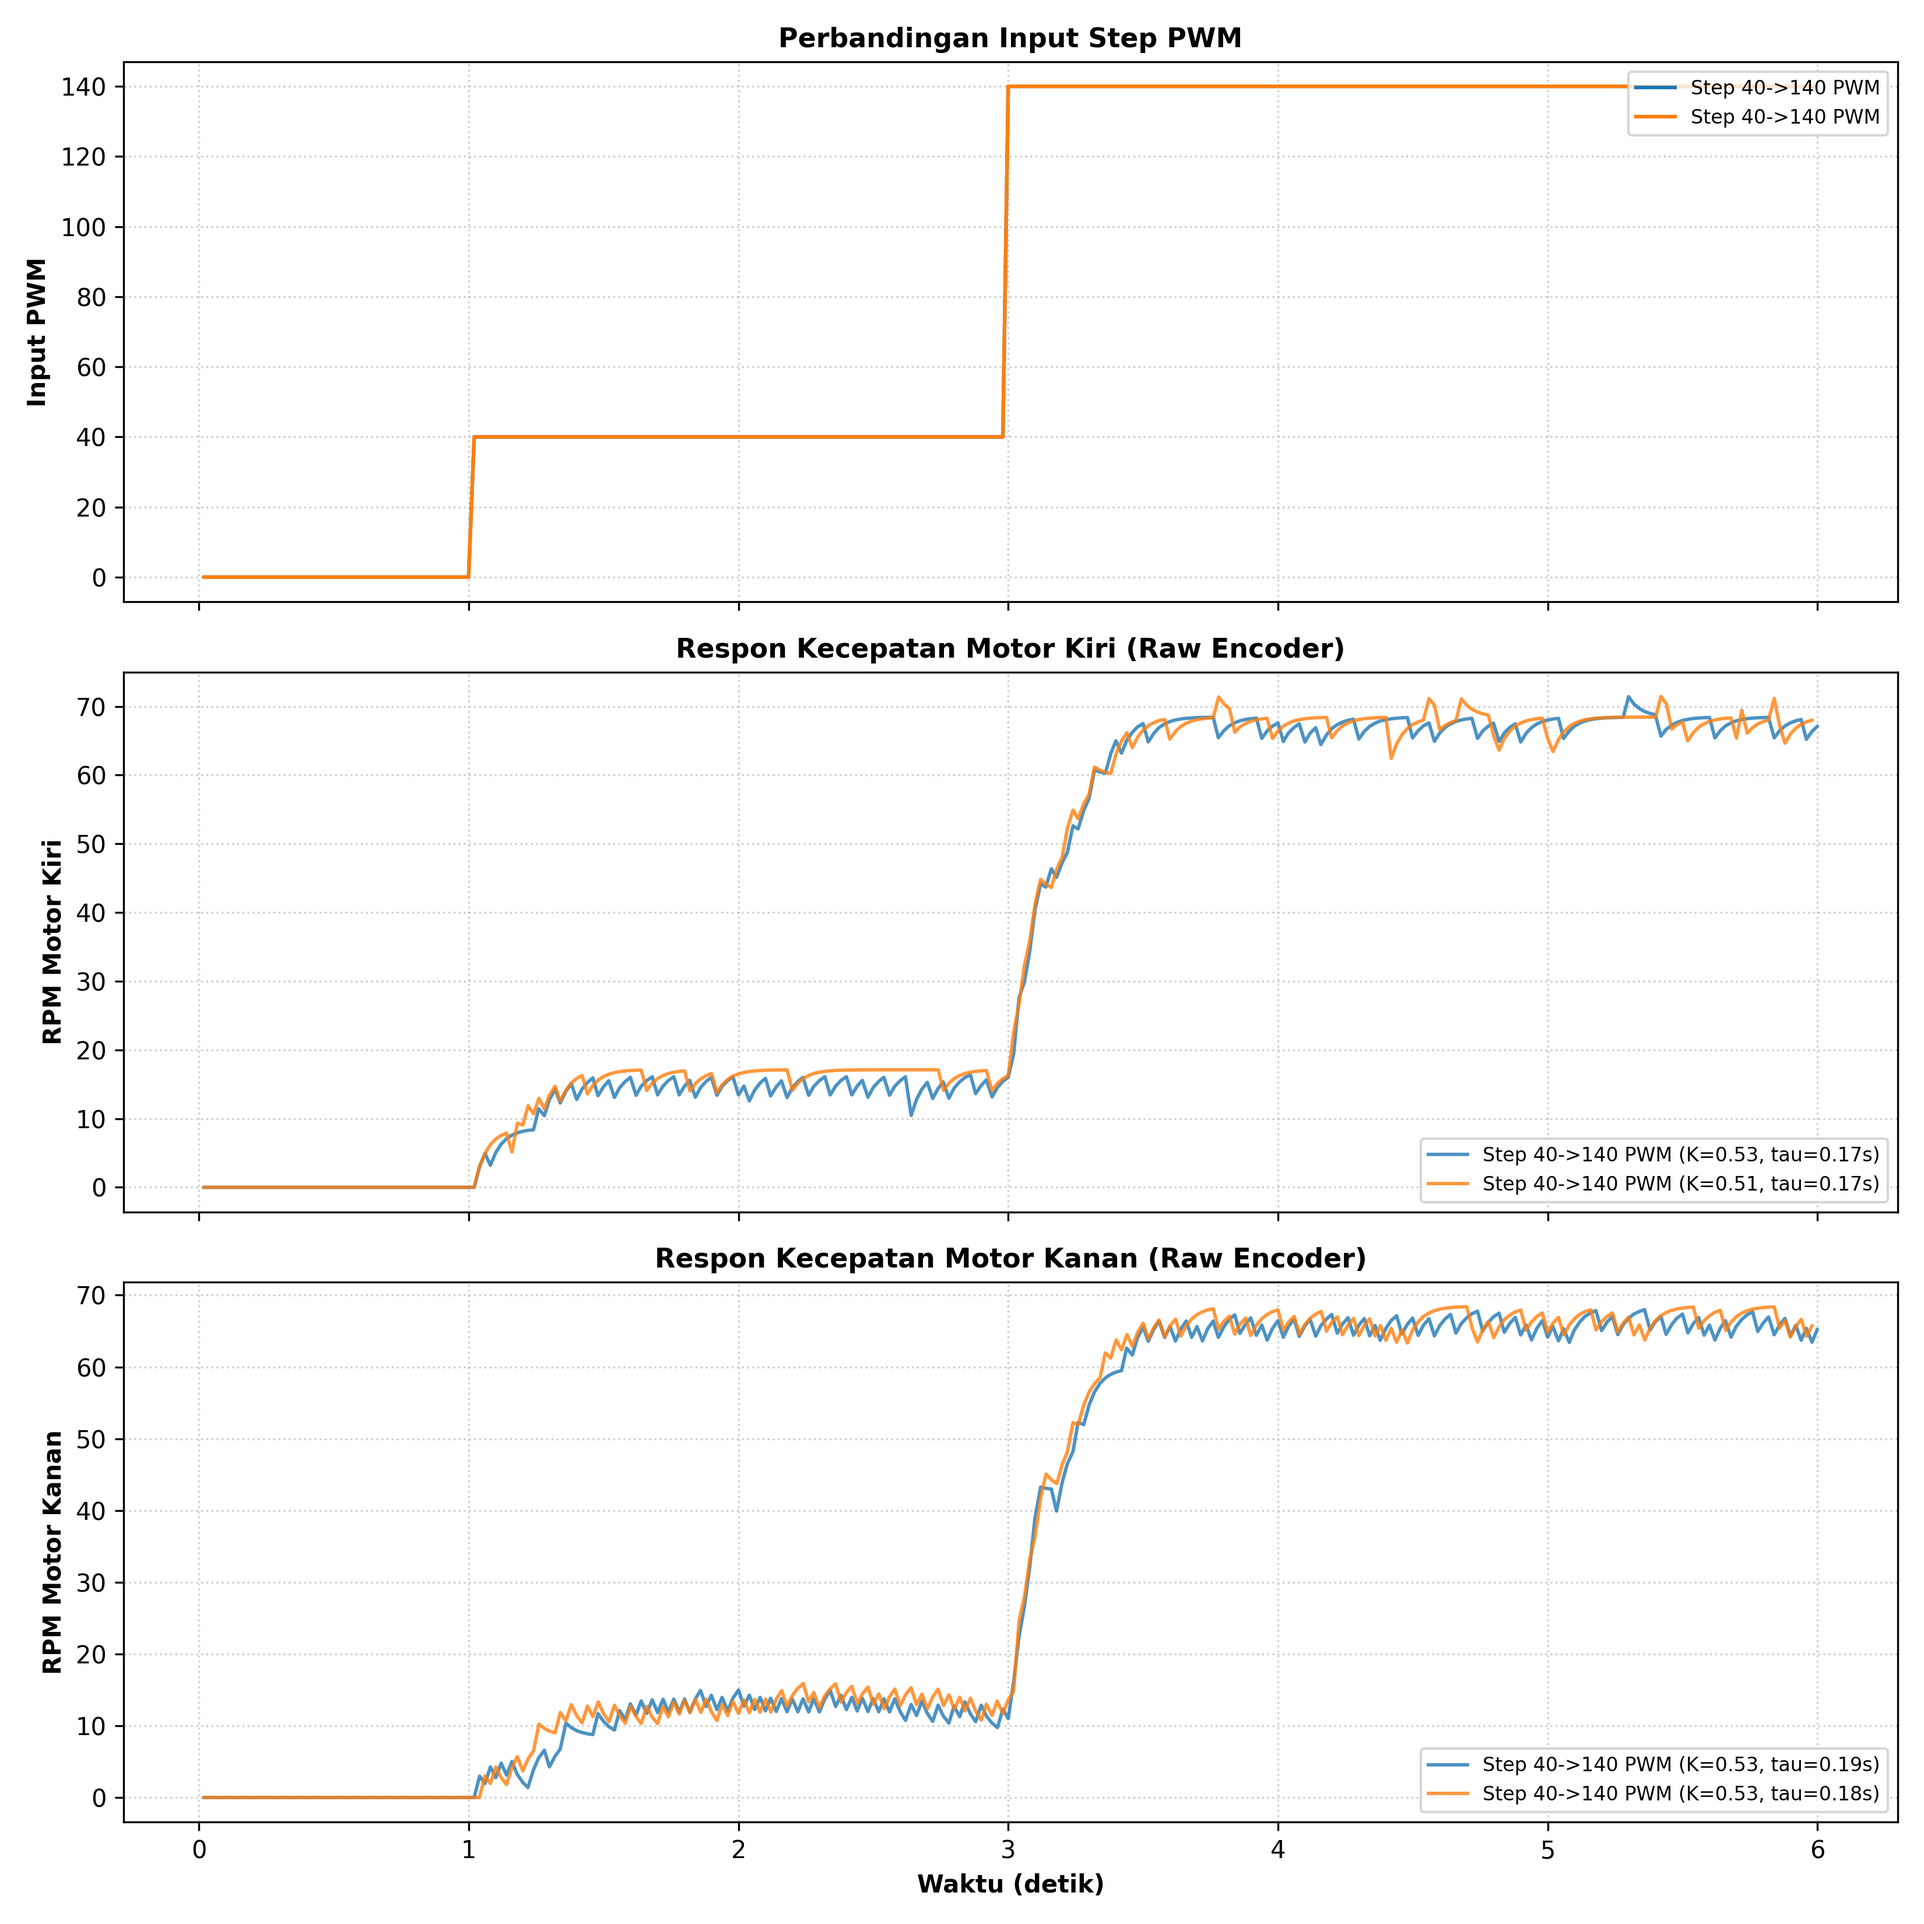
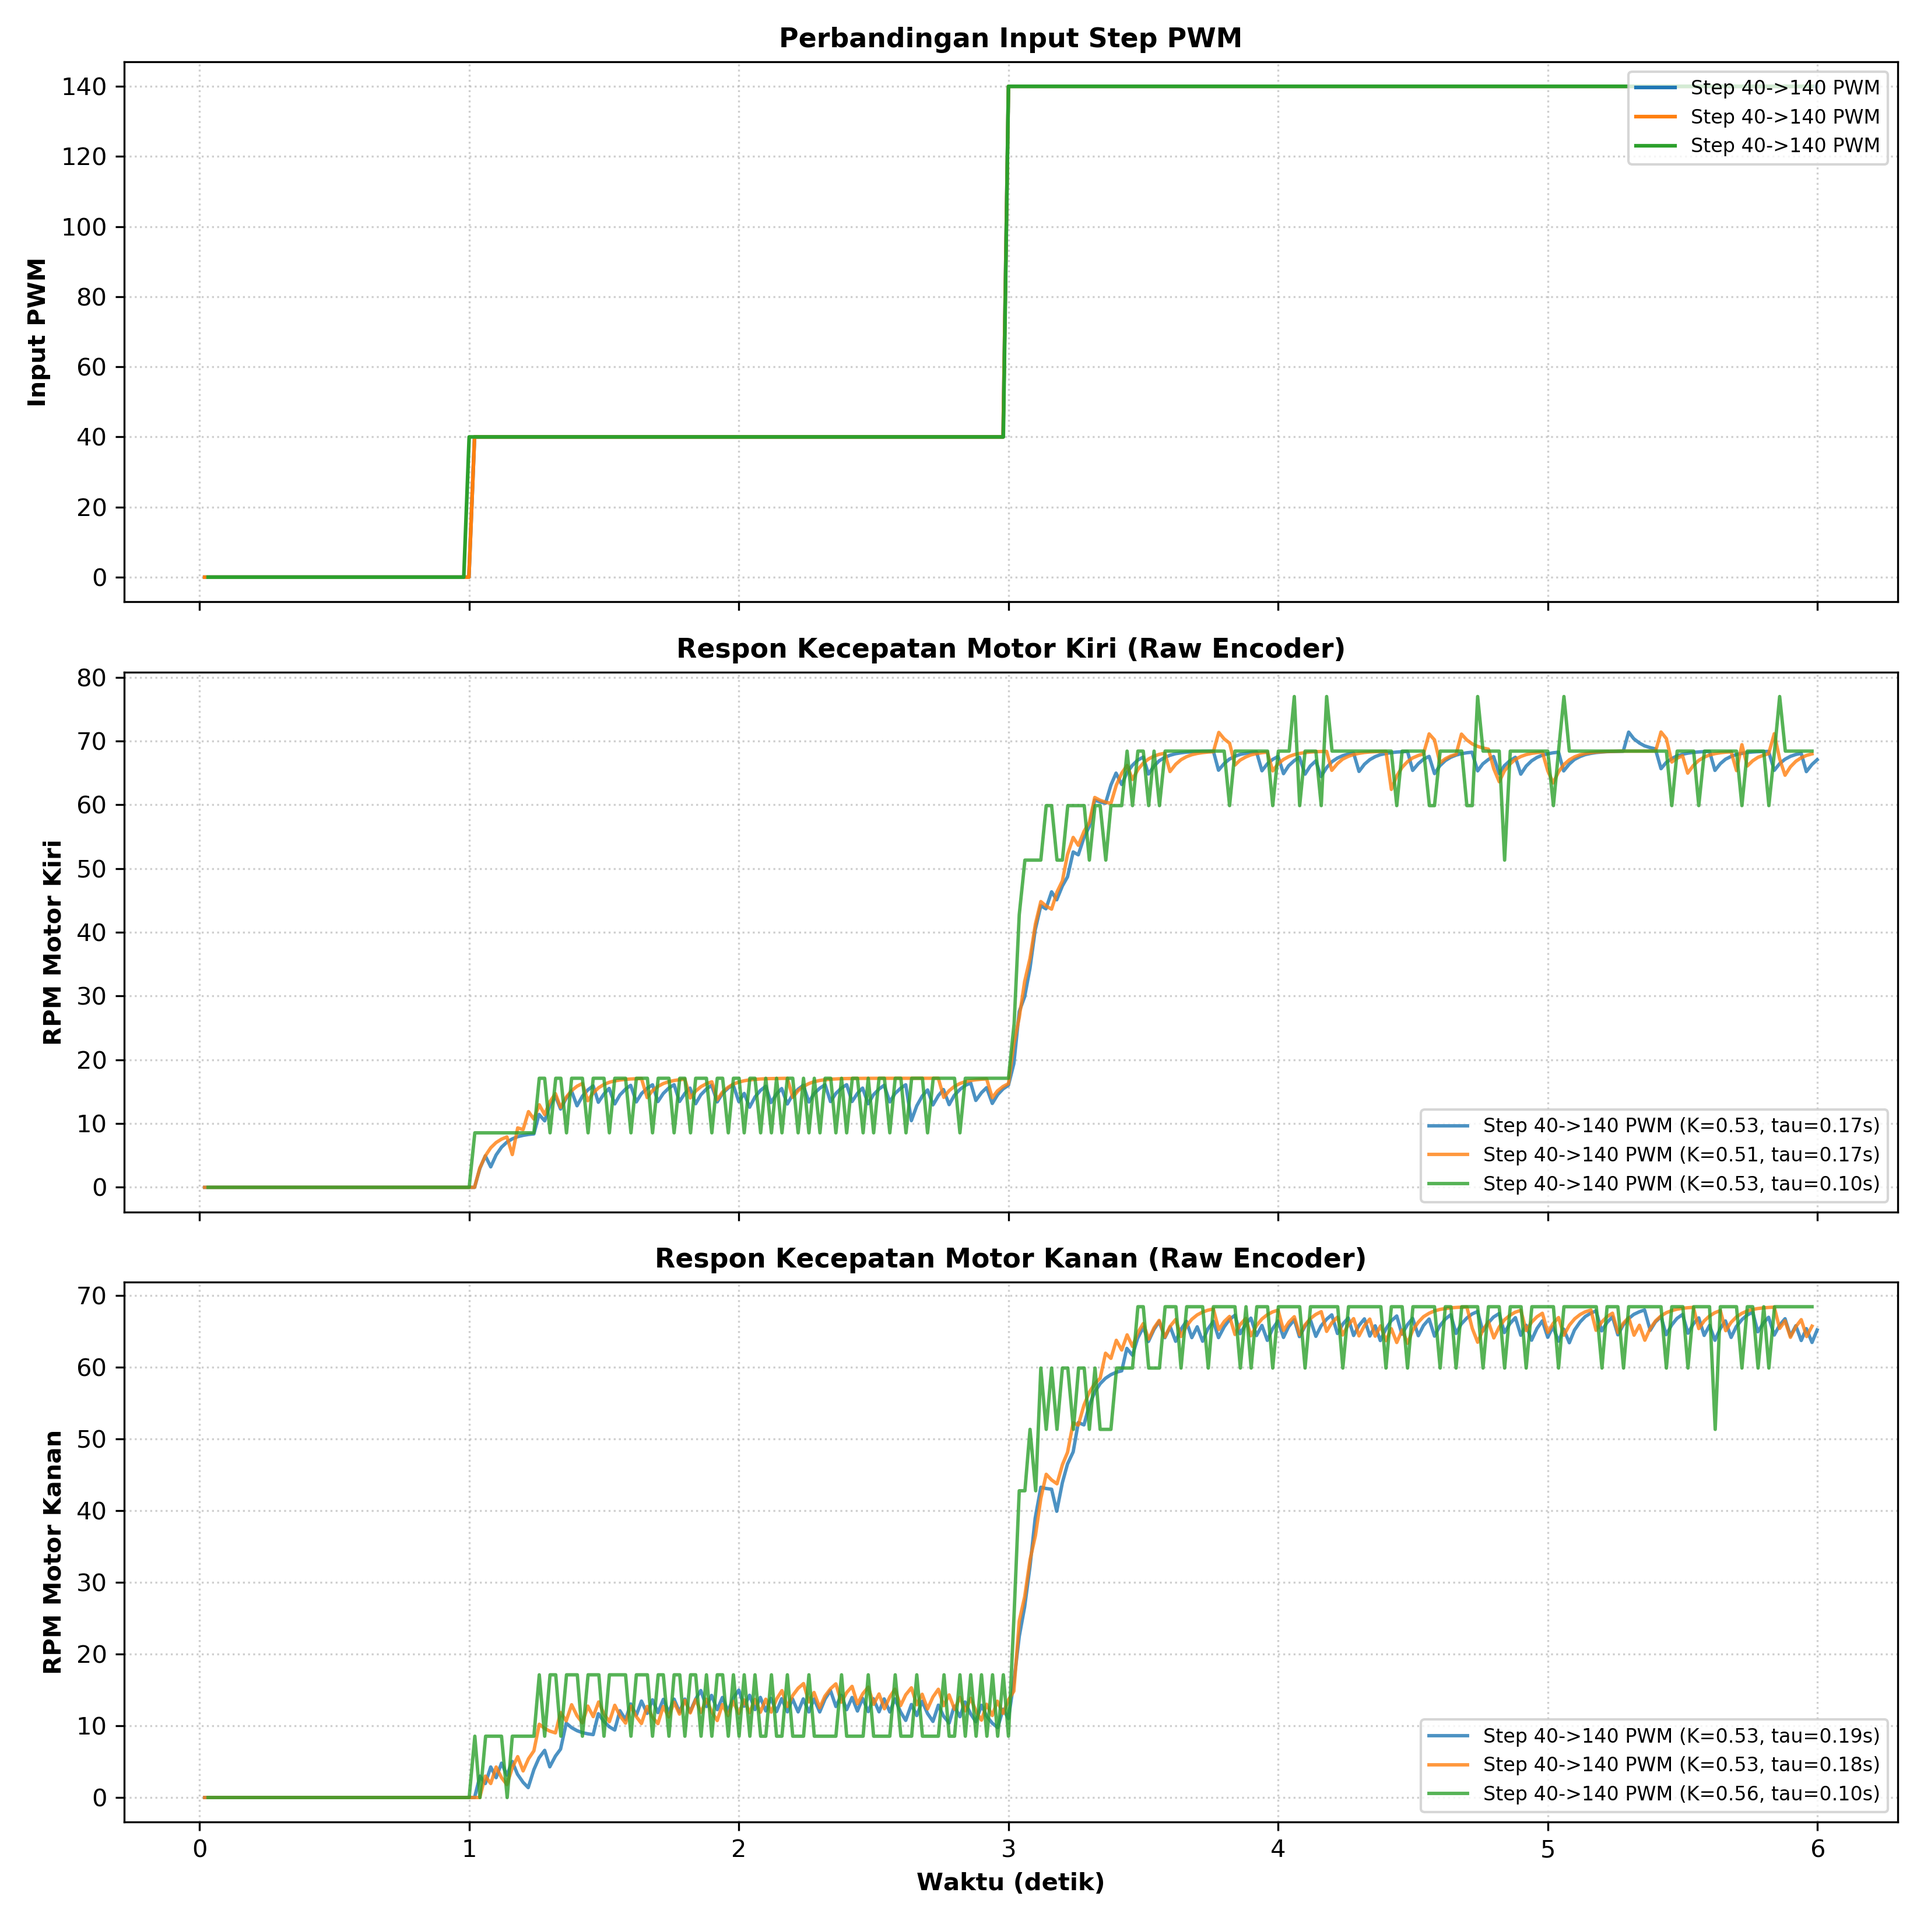
fix step respon

diff --git a/src/amr_simulation/scripts/plot_step_response.py b/src/amr_simulation/scripts/plot_step_response.py
@@ -16,16 +16,26 @@ import os
 import sys
 import glob
 import csv
+import re
 import argparse
 import numpy as np
 import matplotlib.pyplot as plt
+
+
+def extract_timestamp(filepath):
+    """Ambil timestamp YYYYMMDD_HHMMSS dari nama file."""
+    match = re.search(r'(\d{8}_\d{6})', os.path.basename(filepath))
+    if match:
+        return match.group(1)
+    return ""
 
 
 def get_latest_csv(folder):
     files = glob.glob(os.path.join(folder, "step_response_*.csv"))
     if not files:
         return None
-    return max(files, key=os.path.getctime)
+    # Urutkan berdasarkan timestamp YYYYMMDD_HHMMSS dari nama file, fallback ke mtime
+    return max(files, key=lambda f: (extract_timestamp(f), os.path.getmtime(f)))
 
 
 def load_step_csv(csv_path):
@@ -308,12 +318,23 @@ def main():
             os.path.expanduser('~/deliver_amr/data_step_response'),
             os.path.expanduser('~/Documents/amr_ws/data_step_response')
         ]
+        target_dir = None
         for folder in candidate_dirs:
-            if os.path.exists(folder):
-                latest = get_latest_csv(folder)
+            if os.path.exists(folder) and glob.glob(os.path.join(folder, "step_response_*.csv")):
+                target_dir = folder
+                break
+
+        if target_dir:
+            all_csvs = sorted(glob.glob(os.path.join(target_dir, "step_response_*.csv")),
+                              key=lambda f: (extract_timestamp(f), os.path.getmtime(f)))
+            if args.compare:
+                # Mode compare: otomatis ambil semua pengujian base terbaru
+                base_csvs = [f for f in all_csvs if 'step_response_base' in os.path.basename(f)]
+                files = base_csvs if len(base_csvs) >= 2 else all_csvs
+            else:
+                latest = get_latest_csv(target_dir)
                 if latest:
                     files = [latest]
-                    break
 
     if not files:
         print("❌ Tidak ada file CSV Step Response yang ditemukan!")
@@ -324,7 +345,9 @@ def main():
     datasets = []
     for f in files:
         if os.path.isdir(f):
-            for subf in sorted(glob.glob(os.path.join(f, "step_response_*.csv"))):
+            sub_files = sorted(glob.glob(os.path.join(f, "step_response_*.csv")),
+                               key=lambda x: (extract_timestamp(x), os.path.getmtime(x)))
+            for subf in sub_files:
                 d = load_step_csv(subf)
                 if d:
                     datasets.append(d)
@@ -336,6 +359,11 @@ def main():
     if not datasets:
         print("❌ Tidak ada data valid yang bisa dibaca dari file yang diberikan.")
         sys.exit(1)
+
+    loaded_names = [d['filename'] for d in datasets]
+    print(f"\n📂 File yang dimuat ({len(datasets)} file):")
+    for name in loaded_names:
+        print(f"   - {name}")
 
     if args.compare or len(datasets) > 1:
         out_img = args.output_img or os.path.join('data_step_response', 'step_response_comparison.png')
